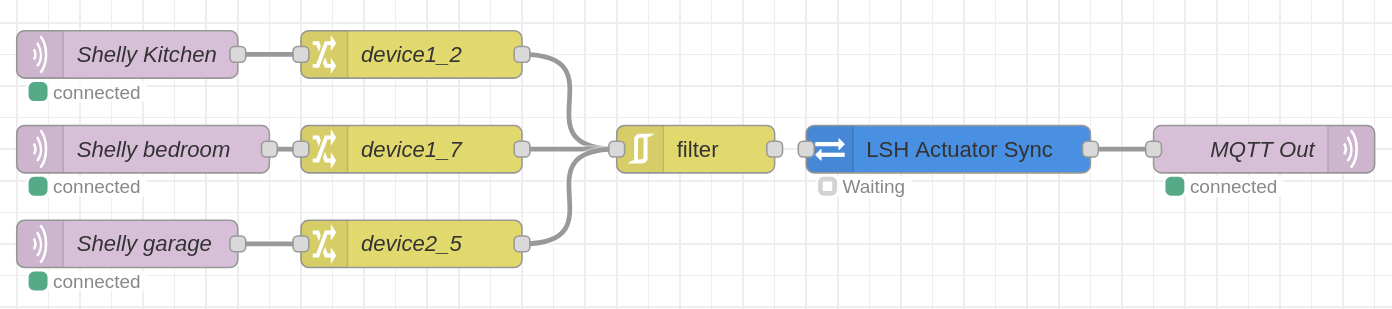
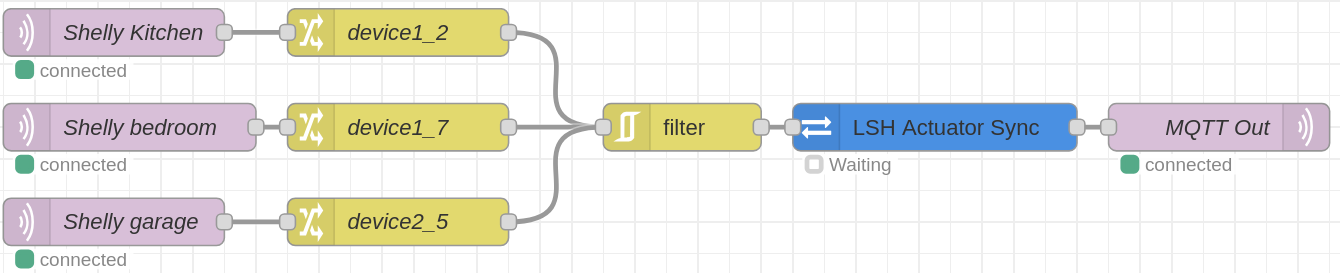
chore(release): 3.1.10

Changed region(s): [[0.0, 0.0293, 1.0, 0.9963]]

diff --git a/src/lsh-logic.html b/src/lsh-logic.html
@@ -1315,9 +1315,30 @@
     <dt>Context Stores</dt>
     <dd>
       Optional exports for the live device registry, generated MQTT topic set and effective runtime
-      config. Useful for dashboards and debugging.
+      config. Useful for dashboards, debugging and helper nodes.
     </dd>
   </dl>
+
+  <h3>Context Scope</h3>
+  <p>
+    Use <b>Disabled</b> for optional exports that no flow reads. Use <b>Flow Context</b> when the
+    coordinator, helper nodes and MQTT wiring live in the same flow tab. Use
+    <b>Global Context</b> only when another flow must read or write the same data, such as shared
+    external actor state, dashboards, or helper flows.
+  </p>
+  <p>
+    <b>Read External Actor State</b> cannot be disabled because it is a read location, not an
+    export. If the System Config has no <code>otherActors</code>, the selected context is simply
+    unused.
+  </p>
+
+  <h3>Multiple LSH Logic Nodes</h3>
+  <p>
+    Multiple <code>lsh-logic</code> nodes can run in one Node-RED runtime when they own separate LSH
+    stacks, MQTT topic spaces, test flows, or controller groups. Keep their MQTT paths, exported
+    context keys and external-state prefixes separate. If helper nodes read exported state or
+    config, point each helper at the matching coordinator instance.
+  </p>
 
   <h3>Startup and Recovery</h3>
   <p>

diff --git a/src/lsh-actuator-sync.html b/src/lsh-actuator-sync.html
@@ -300,9 +300,9 @@
   <h3>Startup Timing</h3>
   <p>
     If external state arrives before <code>lsh-logic</code> has exported authoritative actuator
-    state, the helper keeps the latest state per LSH device/actuator and retries until LSH Ready
-    Context Ready Wait expires. This avoids losing retained startup state while still preventing
-    commands based on incomplete LSH snapshots.
+    state, the helper keeps the latest state per LSH device/actuator and retries until
+    <b>Context Ready Wait</b> expires. This avoids losing retained startup state while still
+    preventing commands based on incomplete LSH snapshots.
   </p>
 
   <h3>Direction Policy</h3>
@@ -313,6 +313,19 @@
     downstream OFF back to LSH, but ignores downstream ON states that may only mean the device
     booted after power was restored. <b>ON only</b> is available for flows that should never switch
     an LSH actuator off.
+  </p>
+
+  <h3>Multiple Sync Helpers</h3>
+  <p>
+    Multiple <code>lsh-actuator-sync</code> nodes can run in the same runtime. Use separate
+    instances when downstream devices need different Direction, retained-message handling, cooldown,
+    QoS or state parsing. A common pattern is <b>OFF only</b> for powered smart lights and
+    <b>Sync ON and OFF</b> for always-powered modules such as Shelly devices.
+  </p>
+  <p>
+    Avoid two helpers commanding the same <code>deviceId</code>/<code>actuatorId</code> unless that
+    duplication is intentional. The helper suppresses commands when LSH is already aligned, but
+    duplicate watchers can still make rapid state changes harder to reason about.
   </p>
 
   <h3>Multiple LSH Nodes</h3>

diff --git a/src/lsh-external-state.html b/src/lsh-external-state.html
@@ -335,6 +335,18 @@
     <b>Context Ready Wait</b> expires. Set the wait to <code>0</code> for fail-fast behavior.
   </p>
 
+  <h3>Multiple Instances</h3>
+  <p>
+    Multiple <code>lsh-external-state</code> nodes can run side by side. They do not share hidden
+    state; each accepted message writes only the selected context, prefix and actor name. This is
+    useful when different integrations need different State Property, true/false lists, retained
+    policy, metadata policy, or fixed actor names.
+  </p>
+  <p>
+    Avoid writing the same actor under the same context and prefix from two helpers unless that is
+    deliberate. In that case the last accepted update wins.
+  </p>
+
   <h3>Outputs</h3>
   <p>
     When a state is stored, the node emits a normalized message with <code>msg.topic</code> set to

diff --git a/src/version.ts b/src/version.ts
@@ -2,4 +2,4 @@
  * Runtime package version shared by diagnostics and generated package metadata.
  * This file is generated from `package.json` by `npm run sync:version`.
  */
-export const PACKAGE_VERSION = "3.1.9";
+export const PACKAGE_VERSION = "3.1.10";

diff --git a/docs/CONFIGURATION.md b/docs/CONFIGURATION.md
@@ -40,16 +40,17 @@ must not end with `/`.
 
 For a typical LSH v5 setup:
 
-| Setting                 | Typical value                       |
-| ----------------------- | ----------------------------------- |
-| Homie Base Path         | `homie/5/`                          |
-| LSH Base Path           | `LSH/`                              |
-| Service Topic           | `LSH/Node-RED/SRV`                  |
-| LSH Protocol            | `JSON` unless firmware uses MsgPack |
-| System Config           | inline JSON in the node editor      |
-| Export MQTT Topics      | `flow`, key `lsh_topics`            |
-| Export Internal State   | `none` until you need debug         |
-| Export Effective Config | `none` until you need debug         |
+| Setting                   | Typical value                                      |
+| ------------------------- | -------------------------------------------------- |
+| Homie Base Path           | `homie/5/`                                         |
+| LSH Base Path             | `LSH/`                                             |
+| Service Topic             | `LSH/Node-RED/SRV`                                 |
+| LSH Protocol              | `JSON` unless firmware uses MsgPack                |
+| System Config             | inline JSON in the node editor                     |
+| Export MQTT Topics        | `flow`, key `lsh_topics`                           |
+| Export Internal State     | `none`, unless dashboards or sync helpers need it  |
+| Export Effective Config   | `none`, unless helper nodes need exported settings |
+| Read External Actor State | `flow` for same-flow state, `global` across flows  |
 
 The default timing values are intentionally conservative. Tune them only when
 you understand your bridge latency, controller timeout, and broker behavior.
@@ -264,6 +265,63 @@ For normal production flows, it is fine to leave internal state and effective
 config exports disabled and keep only topic export enabled if you use dynamic
 subscriptions.
 
+### Context Scope Choices
+
+The editor uses three context choices for optional exports:
+
+- `none` disables an optional export. Use it when no dashboard, debug flow or
+  helper node reads that data. This reduces context writes and avoids accidental
+  key collisions. `none` is not available for **Read External Actor State**
+  because that setting is a read location, not an export; if your System Config
+  has no `otherActors`, the selected read context is simply unused.
+- `flow` stores or reads data in the current Node-RED flow tab. Use it when the
+  `lsh-logic` node, its helper nodes and its MQTT wiring live together. It is
+  the safest scope for importable examples and self-contained installations
+  because another flow cannot accidentally read or overwrite the same keys.
+- `global` stores or reads data across flow tabs. Use it when external state is
+  collected in one flow and consumed by a coordinator in another, when dashboards
+  need cross-flow access, or when shared helper flows must read the same
+  coordinator exports. With `global`, choose explicit keys and prefixes because
+  every flow can see the same namespace.
+
+For `lsh-actuator-sync`, enable both **Export Internal State** and **Export
+Effective Config** on the owning `lsh-logic` node, then point the helper at the
+same context/key pair. For `lsh-external-state`, use the same context selected
+by `lsh-logic` in **Read External Actor State**.
+
+### Multiple LSH Logic Nodes
+
+You can run multiple `lsh-logic` nodes in the same Node-RED runtime. This is
+useful when you intentionally split responsibilities:
+
+- separate physical LSH installations or MQTT topic spaces;
+- production and test coordinators on the same Node-RED host;
+- independent floors, buildings or controller groups;
+- gradual migrations where one coordinator owns only a subset of devices.
+
+Each `lsh-logic` instance has its own in-memory coordinator. They do not share
+hidden runtime state, but they can still conflict through MQTT topics and
+Node-RED context keys. Keep these boundaries explicit:
+
+- avoid letting two coordinators command the same `homieBasePath` device and
+  actuator unless the duplication is deliberate;
+- use distinct `lshBasePath`, `homieBasePath` and `serviceTopic` values for
+  truly separate LSH stacks;
+- keep each `systemConfigJson` responsible for a clear, non-overlapping device
+  set;
+- use unique `exposeStateKey`, `exposeConfigKey` and `exportTopicsKey` values
+  whenever those exports are enabled;
+- use different `otherDevicesPrefix` values when two coordinators read external
+  actors with overlapping names;
+- point every helper node at the state/config exports of the coordinator it is
+  meant to support.
+
+Sharing `global` context is fine when it is intentional, for example when many
+flows publish external actor state for one coordinator. It becomes risky when
+several coordinators use the same default keys, because a helper may read the
+latest export from the wrong coordinator. Prefer `flow` for isolated flows and
+switch to `global` only when cross-flow sharing is part of the design.
+
 ## External State Helper
 
 `lsh-external-state` stores state for non-LSH actors used in `otherActors`. It
@@ -323,6 +381,33 @@ When the prefix is read from `lsh_config` and the config export is not ready
 yet, the helper keeps the latest update per actor and retries until **Context
 Ready Wait** expires. The default wait is `5000` ms. Set it to `0` for
 fail-fast behavior.
+
+### Multiple External State Helpers
+
+You can use multiple `lsh-external-state` nodes in the same Node-RED runtime.
+They do not share hidden runtime state; each accepted message writes only the
+configured context path:
+
+```text
+<storeContext>:<otherDevicesPrefix>.<actorName>.state
+```
+
+That makes multiple instances safe when each one writes a different actor name,
+or when separate flows intentionally use different context stores or prefixes.
+Use multiple helpers when it makes the flow clearer:
+
+- one helper per integration family, such as ESPHome, Zigbee2MQTT, Shelly or
+  Home Assistant;
+- one helper per room or functional area;
+- separate helpers for payloads that need different **State Property**,
+  true/false lists, retained-message policy or metadata policy;
+- fixed actor names for simple single-device flows, and message-derived actor
+  names for shared fan-in flows.
+
+Avoid wiring two helpers to write the same actor under the same context and
+prefix unless that is deliberate. In that case the last accepted update wins,
+which is useful for redundant state sources but confusing when two integrations
+can report different truth values for the same actor.
 
 ## Actuator Sync Helper
 
@@ -390,3 +475,33 @@ When **Require Known LSH State** is enabled and an external state arrives before
 not drop it immediately. It keeps the latest state per `deviceId/actuatorId` and
 retries until **Context Ready Wait** expires. The default wait is `5000` ms. Set
 it to `0` if you prefer the older fail-fast behavior.
+
+### Multiple Actuator Sync Helpers
+
+You can use multiple `lsh-actuator-sync` nodes in the same Node-RED runtime.
+They do not share hidden runtime state; each instance reads the configured
+`lsh_state` and `lsh_config` exports, then emits a command only for the
+`deviceId/actuatorId` carried by the current message.
+
+The safest pattern is one helper instance per downstream device, or one helper
+per small group of downstream devices that share the same policy. Multiple
+instances are useful when devices need different settings:
+
+- **Direction**, for example `OFF only` for powered smart lights and `Sync ON
+and OFF` for always-powered Shelly modules;
+- **Retained Messages**, when one integration has reliable retained state and
+  another does not;
+- **Command Cooldown**, when some devices publish noisy state bursts;
+- **State Property** and true/false parsing, when payloads come from different
+  systems;
+- **QoS**, when selected command paths need a stronger delivery policy.
+
+Do not run two sync helpers that can command the same LSH `deviceId/actuatorId`
+unless the duplication is intentional and externally de-duplicated. The helper
+will avoid commands when LSH is already aligned, but two independent instances
+watching the same target can still make the flow harder to reason about and may
+emit duplicate commands during rapid state changes.
+
+If a flow contains more than one `lsh-logic` node, give each coordinator unique
+state and config export keys. Point each `lsh-actuator-sync` instance at the
+matching pair so it never reads one coordinator and commands another.

diff --git a/README.md b/README.md
@@ -92,6 +92,12 @@ The editor validates that JSON against the LSH System Config shape, offers
 LSH-specific JSON completions/snippets, previews the exact MQTT topic set, and
 can import the generated `lsh-stack-config/v1` export from `lsh-core`.
 
+Multiple `lsh-logic` nodes can run in the same Node-RED runtime when each one
+owns a distinct LSH stack, MQTT topic space, or isolated test flow. Keep their
+context export keys separate when helpers read exported state or config: use
+`flow` for self-contained flows, `global` when helper flows must share the same
+coordinator exports, and `none` when no flow needs that optional export.
+
 Start with a small config and add actions one at a time:
 
 ```json
@@ -155,6 +161,10 @@ the same context selected by the `lsh-logic` node in **Read External Actor
 State**. The prefix can come from the exported `lsh_config.otherDevicesPrefix`,
 which avoids mismatches when the main node uses a custom prefix.
 
+Multiple `lsh-external-state` nodes can run in the same Node-RED instance. They
+do not conflict when each instance stores a different actor, or when separated
+flows intentionally use different context stores or prefixes.
+
 Example import:
 [examples/lsh-external-state.json](https://github.com/labodj/node-red-contrib-lsh-logic/blob/main/examples/lsh-external-state.json)
 
@@ -173,6 +183,10 @@ or Function node to add `msg.deviceId` and `msg.actuatorId`, then wire the helpe
 output to the same MQTT output used for LSH commands. If you run more than one
 `lsh-logic` node, give each one unique state/config export keys and point each
 helper instance at the matching keys.
+
+Multiple `lsh-actuator-sync` nodes can run side by side. The normal pattern is
+one helper policy per downstream device, or per group of devices that share the
+same retained-message, direction, cooldown and state-parsing rules.
 
 Example import:
 [examples/lsh-actuator-sync.json](https://github.com/labodj/node-red-contrib-lsh-logic/blob/main/examples/lsh-actuator-sync.json)